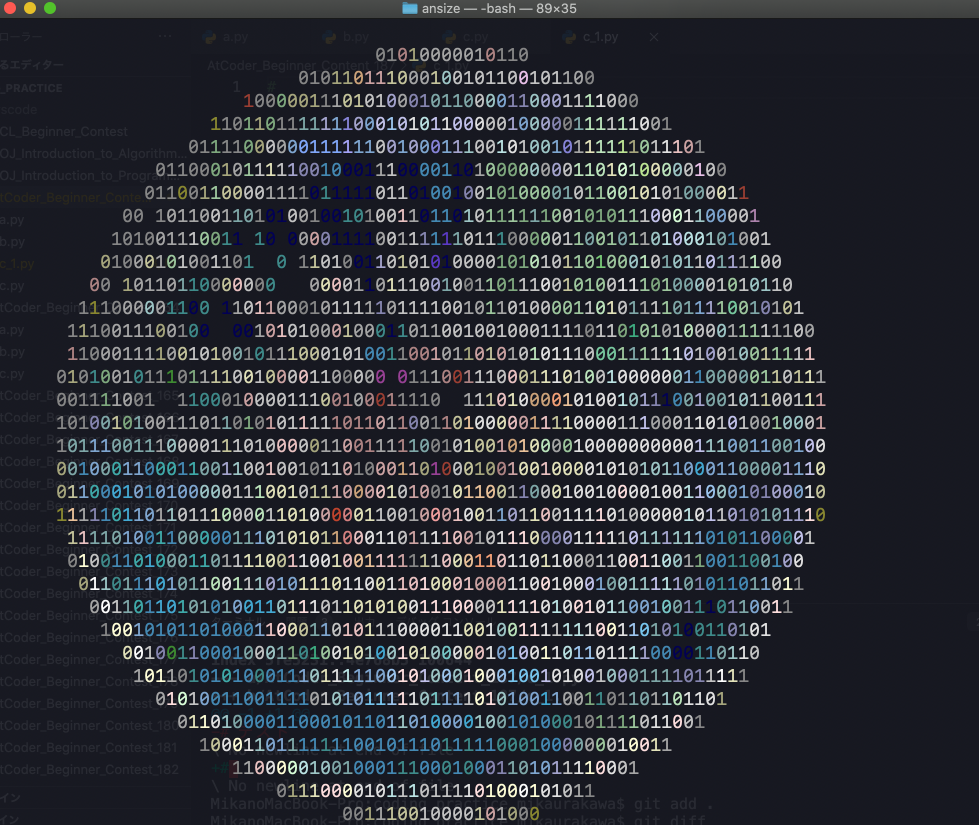
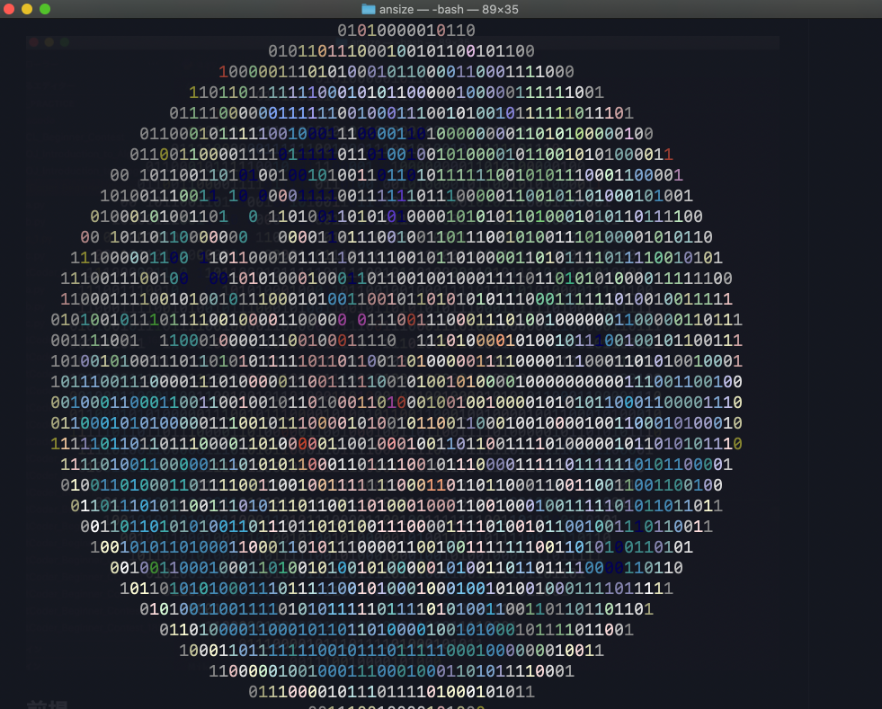
docs: 画像差し替えとREADME修正

diff --git a/README.md b/README.md
@@ -7,7 +7,7 @@
 
 ## 前提
 
-* MacOSでのみ動きます
+* MacOSでのみ動作確認済みです
 * 事前にASCII Artのファイルを準備してください
   * [ansize](https://github.com/jasonmoo/ansize)を使用すると、好きな画像をASCII Artのファイルに変換できます
   * `txt`ファイルと`ascii`ファイルで動作確認済みです
